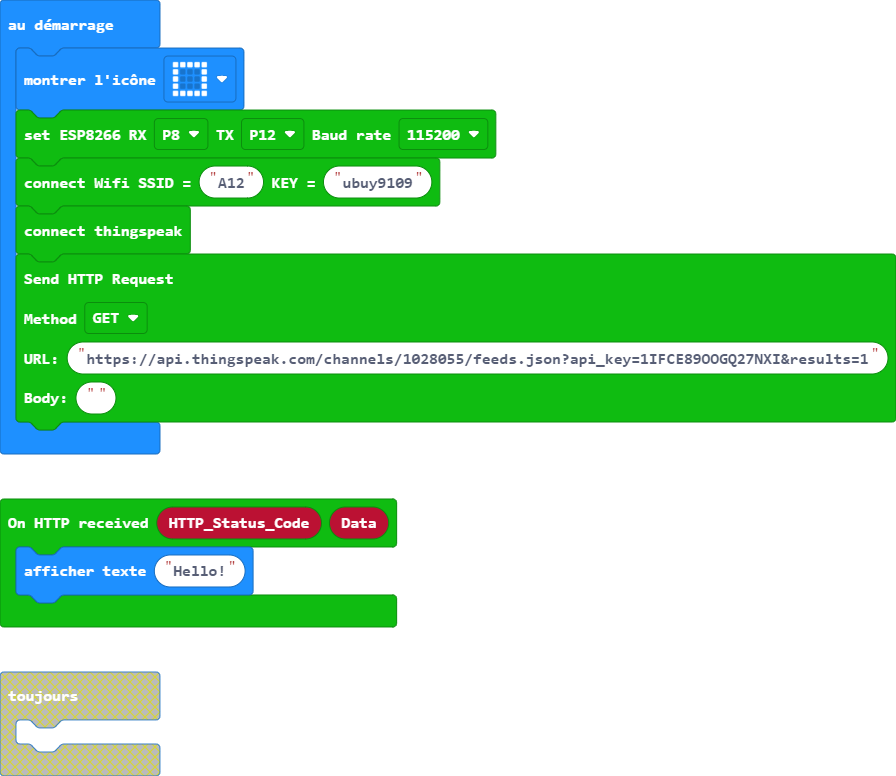
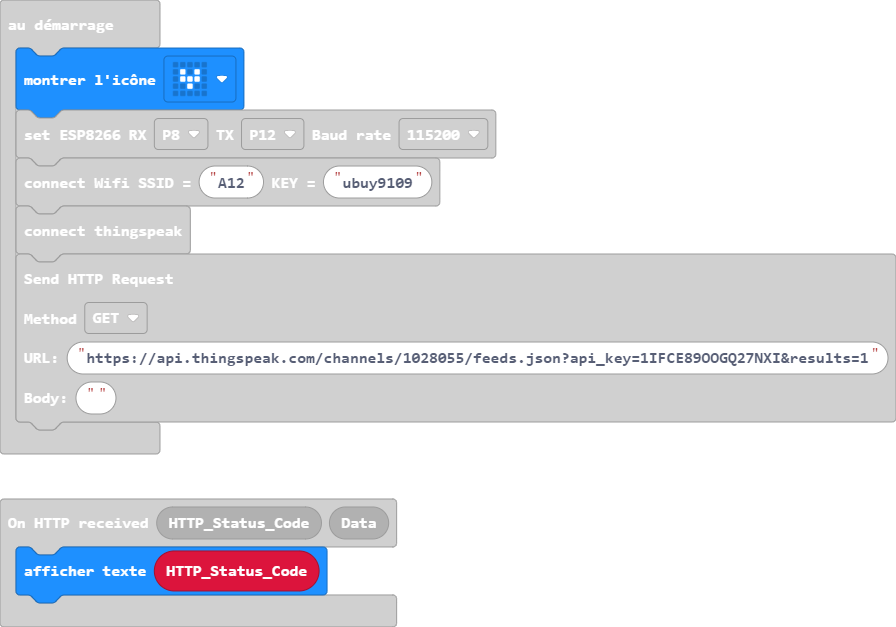
Mise à jour main.blocks, main.ts

diff --git a/main.ts b/main.ts
@@ -1,7 +1,7 @@
 IoT_Bit_naim.on_HTTP_recevid(function (HTTP_Status_Code, Data) {
-    basic.showString("Hello!")
+    basic.showString(HTTP_Status_Code)
 })
-basic.showIcon(IconNames.Square)
+basic.showIcon(IconNames.SmallHeart)
 IoT_Bit_naim.initWIFI(SerialPin.P8, SerialPin.P12, BaudRate.BaudRate115200)
 IoT_Bit_naim.connectWifi("A12", "ubuy9109")
 IoT_Bit_naim.connectThingSpeak()
